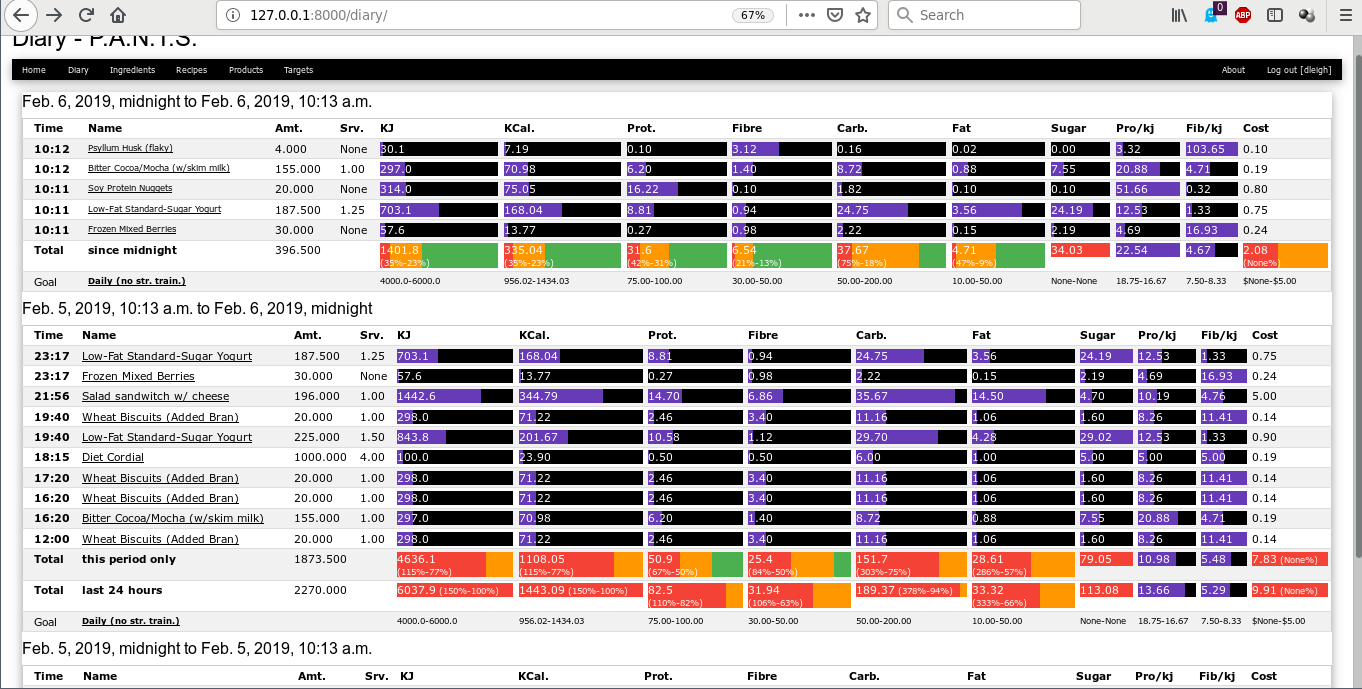
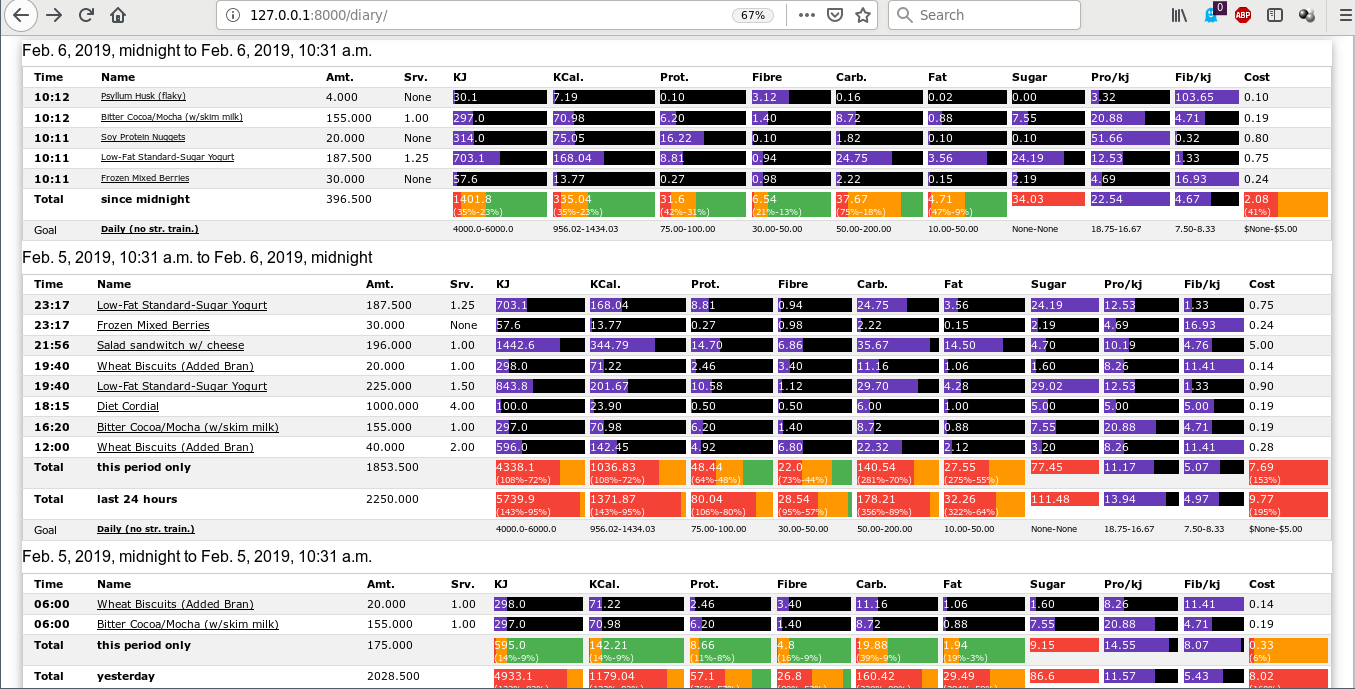
fix solid over_colour when over max limit; new diary screenshot showing overlap view with new 3-colour bars

diff --git a/pants/website/templatetags/css_visuals.py b/pants/website/templatetags/css_visuals.py
@@ -77,7 +77,7 @@ def valminmaxdiv(value, min_target, max_target):
    if (val >= max_t):
       return mark_safe(
          '<div class="%s">%s</div>'%(
-            warn_colour,
+            over_colour,
             contents,
          )
       )
